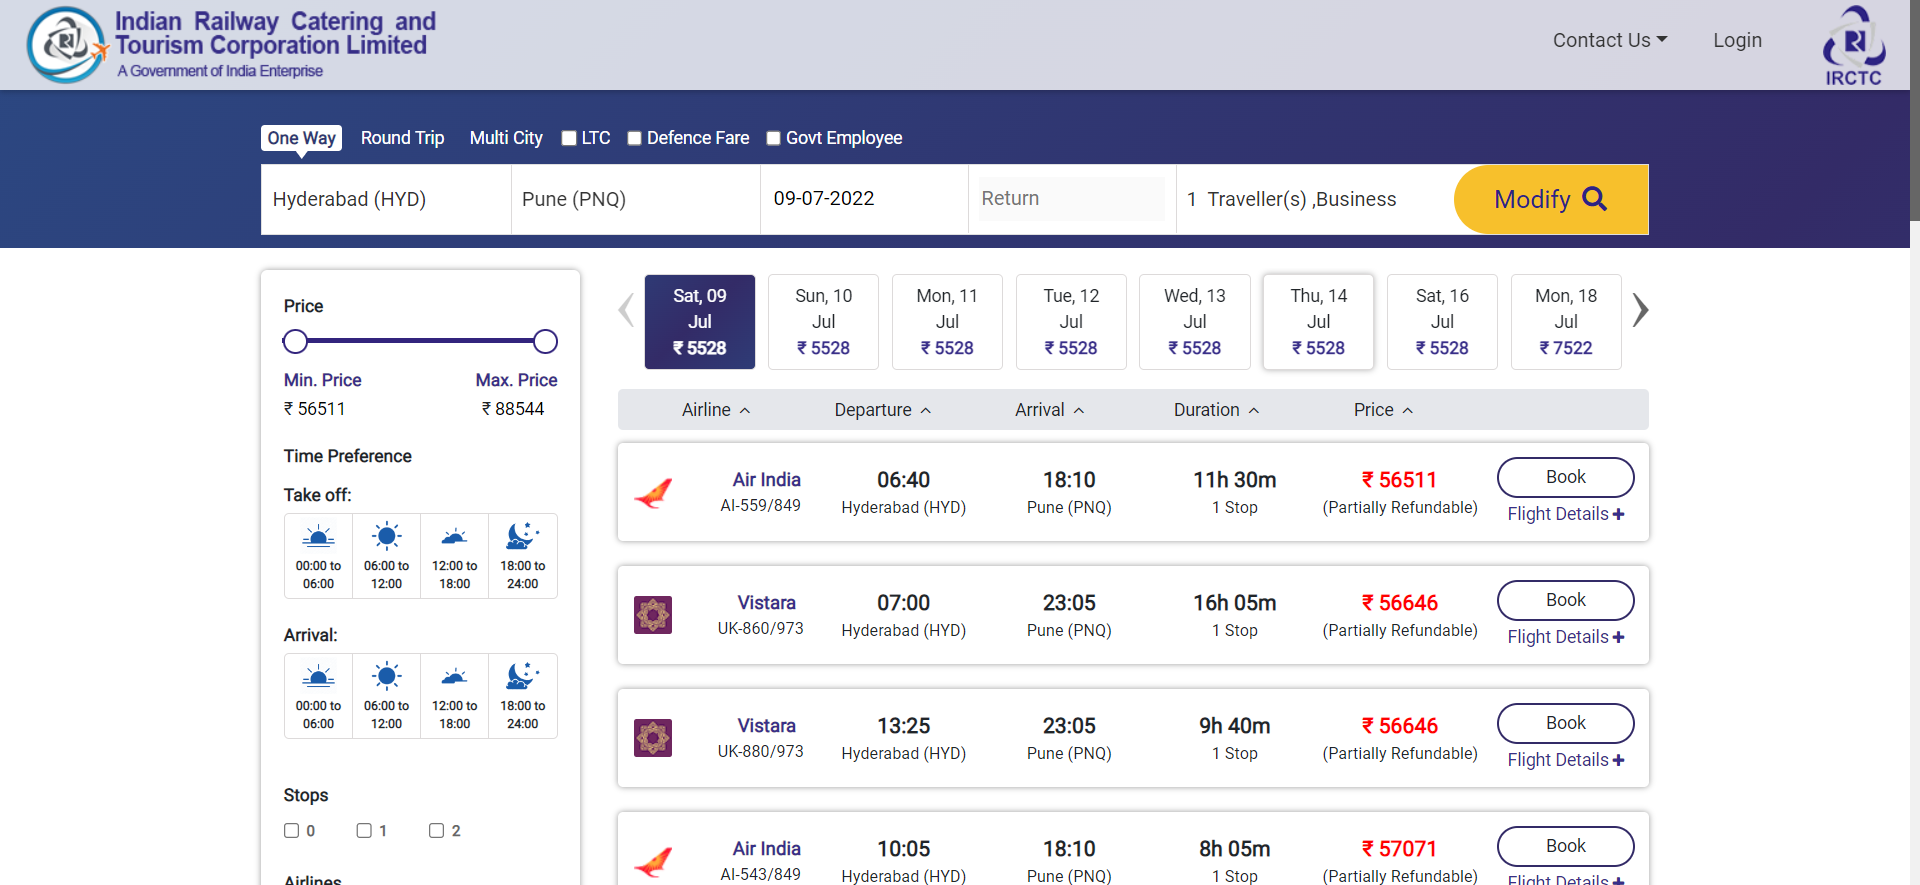
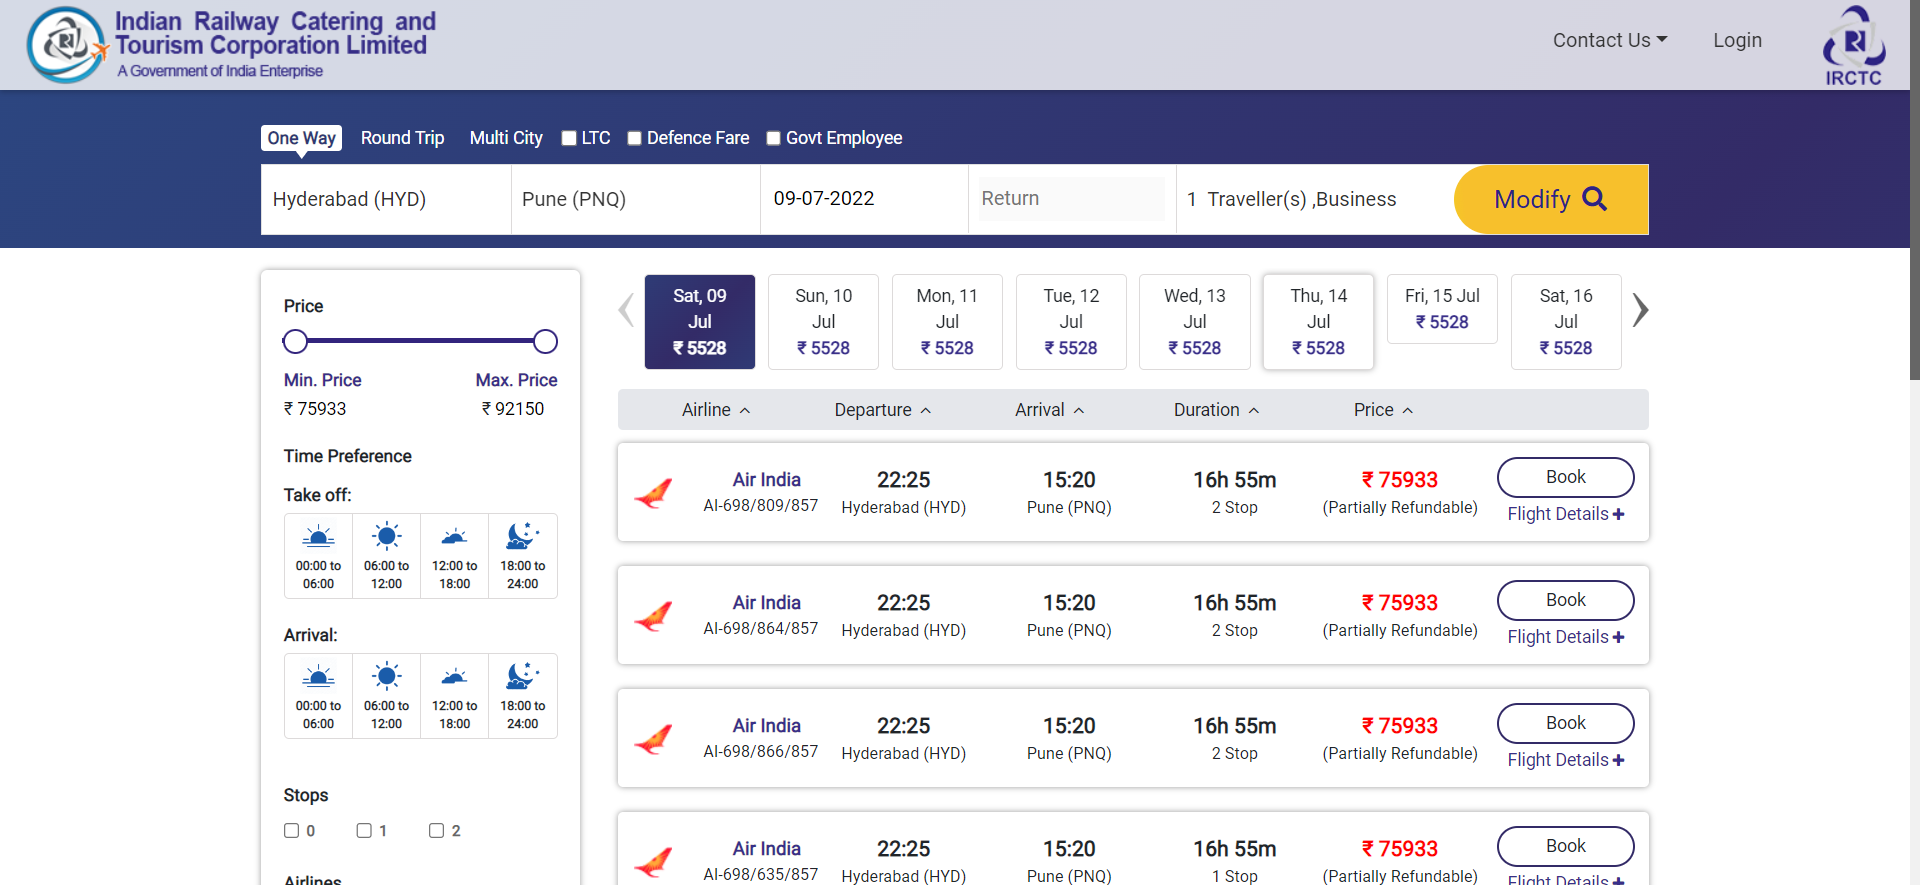
commit

diff --git a/features/steps/flights.py b/features/steps/flights.py
@@ -35,7 +35,6 @@ time.sleep(5)
 def step_impl(context):
     raise NotImplementedError(u'STEP: When user selects Hyderabad as a Origin')
 
-
 driver.find_element(By.ID, "stationFrom").send_keys("Hyd")
 driver.find_element(By.XPATH, "//body[1]/ul[1]/li[8]/div[1]").click()
 assert True, "Test Passeed"
@@ -47,6 +46,7 @@ time.sleep(5)
 def step_impl(context):
     raise NotImplementedError(u'STEP: When User user selects Pune as a Destination')
 driver.switch_to.default_content()
+
 driver.find_element(By.XPATH, "//input[@id='stationTo']").send_keys("pune")
 driver.find_element(By.XPATH, "//body[1]/ul[2]/li[7]/div[1]").click()
 assert True, "Test Passeed"
@@ -98,13 +98,22 @@ for flight in flight_names:
     print(flight.text)
     print("-------------------------------------------------------------------")
 assert True, "Test Passeed"
-
+time.sleep(5)
 # takes screenshots of avilable flights
 @then(u'User capture the result screenshot and save in the project folder')
 def step_impl(context):
     raise NotImplementedError(u'STEP: Then User capture the result screenshot and save in the project folder')
 time.sleep(10)
 driver.get_screenshot_as_file('flight1.png')
+time.sleep(3)
+driver.execute_script("window.scrollBy(0,750)", " ")
+time.sleep(3)
+driver.get_screenshot_as_file('flight2.png')
+time.sleep(3)
+driver.execute_script("window.scrollBy(750,1500)", " ")
+time.sleep(3)
+driver.get_screenshot_as_file('flight3.png')
+
 assert True, "Test Passeed"
 
 #close driver

diff --git a/features/steps/loginstep.py b/features/steps/loginstep.py
@@ -1,3 +1,5 @@
+import time
+
 from behave import *
 from selenium import webdriver
 from selenium.webdriver.common.by import By
@@ -17,13 +19,20 @@ def launchbrowser(context):
 @when(u'user enter username as "{user}" and password is "{pwd}"')
 def userdetails(context,user,pwd):
     context.driver.get("https://www.air.irctc.co.in/")
+    context.driver.maximize_window()
+    time.sleep(3)
     context.driver.find_element(by=By.XPATH, value="//header/nav[1]/div[1]/div[3]/div[1]/ul[1]/li[2]/a[1]").click()
+    time.sleep(3)
     context.driver.find_element(by=By.NAME,value="userId").send_keys(user)
+    time.sleep(3)
     context.driver.find_element(by=By.NAME,value="password").send_keys(pwd)
+    time.sleep(3)
+
 
 @when(u'user click on login')
 def submitdetails(context):
     context.driver.find_element(by=By.XPATH,value="//button[contains(text(),'Login')]").click()
+    time.sleep(3)
 
 @then(u'user will verify the title of the page')
 def verifytitle(context):
